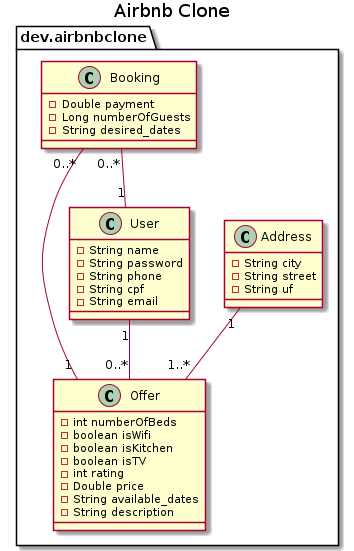
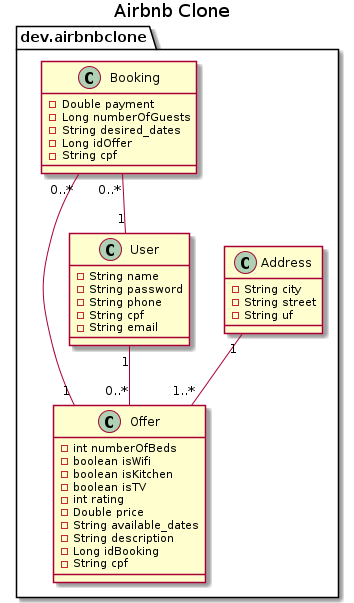
#2

diff --git a/src/main/java/dev/airbnbclone/controller/ServiceController.java b/src/main/java/dev/airbnbclone/controller/ServiceController.java
@@ -80,12 +80,19 @@ public class ServiceController extends BaseController {
             @RequestParam("isTV") final boolean isTV, @RequestParam("available_dates") final String available_dates,
             @RequestParam("city") final String city, @RequestParam("street") final String street,
             @RequestParam("description") final String description, @RequestParam("uf") final String uf,
-            @RequestParam("price") final Double price) throws WebApplicationException {
+            @RequestParam("price") final Double price, @RequestParam("cpf") final String cpf,
+            @RequestParam("idBooking") Long idBooking) throws WebApplicationException {
 
         final Offer offer = new Offer();
+
         final Address address = new Address();
 
-        if (available_dates.isEmpty() || description.isEmpty() || price == null) {
+        final Booking booking = bookingDAO.findById(idBooking).get();
+
+        final User user = userDAO.findByCpf(cpf);
+
+        // this offer cannot have the same user booking it.
+        if (booking.getUser() != null || available_dates.isEmpty() || user == null || description.isEmpty() || price == null) {
             ResponseBuilderImpl builder = new ResponseBuilderImpl();
             builder.status(Response.Status.BAD_REQUEST);
             builder.entity("name cannot be empty");
@@ -100,6 +107,7 @@ public class ServiceController extends BaseController {
             offer.setPrice(price);
             offer.setIsTV(isTV);
             offer.setIsWifi(isWifi);
+            offer.setUser(user);
 
             address.setCity(city);
             address.setStreet(street);
@@ -116,14 +124,18 @@ public class ServiceController extends BaseController {
     @Transactional
     @RequestMapping(value = "createBooking", produces = MediaType.APPLICATION_JSON_VALUE, method = RequestMethod.POST)
     public Booking createBooking(@RequestParam("payment") final Double payment,
-    @RequestParam("numberOfGuests") final Long numberOfGuests,
-    @RequestParam("desired_dates") final String desired_dates,
-    @RequestParam("id") final Long id) throws WebApplicationException {
+        @RequestParam("numberOfGuests") final Long numberOfGuests,
+        @RequestParam("desired_dates") final String desired_dates,
+        @RequestParam("idOffer") final Long idOffer, @RequestParam("cpf") final String cpf) throws WebApplicationException {
 
         final Booking booking = new Booking();
-        final Offer offer = offerDAO.getById(id);
+        
+        final Offer offer = offerDAO.findById(idOffer).get();
 
-        if (desired_dates.isEmpty() || numberOfGuests == null || payment == null) {
+        final User user = userDAO.findByCpf(cpf);
+        
+        // this reservation cannot have the same user offering it.
+        if (offer.getUser() != null || desired_dates.isEmpty() || user == null || numberOfGuests == null || payment == null) {
             ResponseBuilderImpl builder = new ResponseBuilderImpl();
             builder.status(Response.Status.BAD_REQUEST);
             builder.entity("name cannot be empty");
@@ -135,6 +147,7 @@ public class ServiceController extends BaseController {
             booking.setNumberOfGuests(numberOfGuests);
             booking.setPayment(payment);
             booking.setOffer(offer);
+            booking.setUser(user);
 
 
             bookingDAO.save(booking);

diff --git a/src/main/java/dev/airbnbclone/data/UserDAO.java b/src/main/java/dev/airbnbclone/data/UserDAO.java
@@ -10,6 +10,8 @@ public interface UserDAO extends JpaRepository<User, Long>{
     
     User findByEmail(String email);
 
+    User findByCpf(String cpf);
+
     @Override
     void delete(User user);
     
